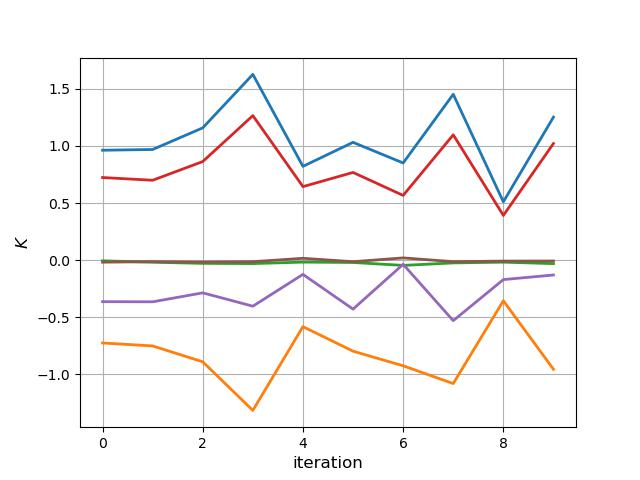
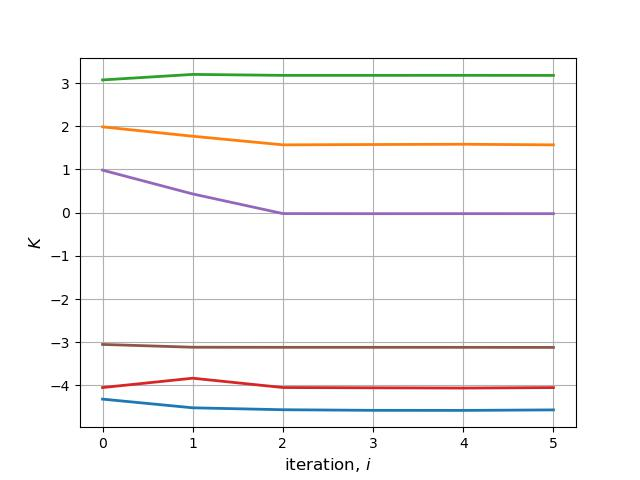
single learning experiment

diff --git a/adaptive_tracking_control/main_single_learning.py b/adaptive_tracking_control/main_single_learning.py
@@ -4,20 +4,20 @@ import time
 from matplotlib import ticker
 def MonteCarlo():
     totalSim = 1
-    iteration = 10
+    iteration = 5
     y_max = 0.8
     y_min = -0.3
-    K0_container = np.zeros((totalSim, iteration))
-    K1_container = np.zeros((totalSim, iteration))
-    K2_container = np.zeros((totalSim, iteration))
-    K3_container = np.zeros((totalSim, iteration))
-    K4_container = np.zeros((totalSim, iteration))
-    K5_container = np.zeros((totalSim, iteration))
-    k0_container = np.zeros((totalSim, iteration))
-    k1_container = np.zeros((totalSim, iteration))
+    K0_container = np.zeros((totalSim, iteration+1))
+    K1_container = np.zeros((totalSim, iteration+1))
+    K2_container = np.zeros((totalSim, iteration+1))
+    K3_container = np.zeros((totalSim, iteration+1))
+    K4_container = np.zeros((totalSim, iteration+1))
+    K5_container = np.zeros((totalSim, iteration+1))
+    k0_container = np.zeros((totalSim, iteration+1))
+    k1_container = np.zeros((totalSim, iteration+1))
     r_container = np.zeros((totalSim, iteration+1))
     l_container = np.zeros((totalSim, iteration+1))
-    nTraj = 1200
+    nTraj = 5000
     x_trained_container = np.zeros((totalSim, nTraj-1))
     y_trained_container = np.zeros((totalSim, nTraj-1))
 
@@ -31,8 +31,18 @@ def MonteCarlo():
         lti = LTI(fixed_param=True)
         x_init_container[i, :], y_init_container[i, :], _, _ = evaluation(lti, nTraj)
         r_container[i, 0], l_container[i, 0] = calculate_r_l(lti.B, lti.dt)
-        optimal_K = lti.K_optimal
-        optimal_k = lti.k_optimal
+        init_K = lti.K_ini
+        init_k = lti.k_ini
+        K0_container[i, 0] = init_K[0, 0]
+        K1_container[i, 0] = init_K[0, 1]
+        K2_container[i, 0] = init_K[0, 2]
+        K3_container[i, 0] = init_K[1, 0]
+        K4_container[i, 0] = init_K[1, 1]
+        K5_container[i, 0] = init_K[1, 2]
+        k0_container[i, 0] = init_k[0]
+        k1_container[i, 0] = init_k[1]
+        optimal_K = lti.K_ground_truth
+        optimal_k = lti.k_ground_truth
         for j in range(iteration):
             start_time = time.time()
             K, k, B, successful = learning(lti)
@@ -45,14 +55,14 @@ def MonteCarlo():
                 i = i - 1
                 break
             r, l = calculate_r_l(B, lti.dt)
-            K0_container[i, j] = K[0, 0] - optimal_K[0, 0]
-            K1_container[i, j] = K[0, 1] - optimal_K[0, 1]
-            K2_container[i, j] = K[0, 2] - optimal_K[0, 2]
-            K3_container[i, j] = K[1, 0] - optimal_K[1, 0]
-            K4_container[i, j] = K[1, 1] - optimal_K[1, 1]
-            K5_container[i, j] = K[1, 2] - optimal_K[1, 2]
-            k0_container[i, j] = k[0] - optimal_k[0]
-            k1_container[i, j] = k[1] - optimal_k[1]
+            K0_container[i, j+1] = K[0, 0] #- optimal_K[0, 0]
+            K1_container[i, j+1] = K[0, 1]# - optimal_K[0, 1]
+            K2_container[i, j+1] = K[0, 2]# - optimal_K[0, 2]
+            K3_container[i, j+1] = K[1, 0] #- optimal_K[1, 0]
+            K4_container[i, j+1] = K[1, 1] #- optimal_K[1, 1]
+            K5_container[i, j+1] = K[1, 2] #- optimal_K[1, 2]
+            k0_container[i, j+1] = k[0] #- optimal_k[0]
+            k1_container[i, j+1] = k[1]# - optimal_k[1]
             r_container[i, j+1] = r
             l_container[i, j+1] = l
 
@@ -64,7 +74,7 @@ def MonteCarlo():
     line_width = 2
     # dirpath
     dirpath = os.getcwd()
-    data_path = os.path.join(dirpath, "data")
+    data_path = os.path.join(dirpath, "data", "single_learning")
     # plot init x and y in the same figure
     plt.figure()
     plt.grid(True)
@@ -101,27 +111,30 @@ def MonteCarlo():
     plt.yticks(fontsize=font_size - 2)
     plt.plot(x, r_container.T, linewidth=line_width)
     plt.plot(x, l_container.T, linewidth=line_width)
-    plt.xlabel("iteration", fontsize=font_size)
-    plt.ylabel("$r~(m)$", fontsize=font_size)
+    plt.xlabel("iteration ($i$)", fontsize=font_size)
+    plt.ylabel("length (m)$", fontsize=font_size)
+    plt.legend(['$r$', '$l$'], fontsize=font_size - 2)
+    plt.title("Convergence process of $r$ and $l$", fontsize=font_size)
     name = "trained_r_l.jpg"
     plt.savefig(os.path.join(data_path, name))
     plt.show()
 
     # plot K0, K1, K2, K3, K4, K5
-    x = np.arange(0, iteration, 1)
+    x = np.arange(0, iteration+1, 1)
     plt.figure()
     # show grid
     plt.grid(True)
     plt.xticks(fontsize=font_size - 2)
     plt.yticks(fontsize=font_size - 2)
-    plt.plot(x, K0_container.T, linewidth=line_width)
-    plt.plot(x, K1_container.T, linewidth=line_width)
-    plt.plot(x, K2_container.T, linewidth=line_width)
-    plt.plot(x, K3_container.T, linewidth=line_width)
-    plt.plot(x, K4_container.T, linewidth=line_width)
-    plt.plot(x, K5_container.T, linewidth=line_width)
-    plt.xlabel("iteration", fontsize=font_size)
-    plt.ylabel("$K$", fontsize=font_size)
+    plt.plot(x, K0_container[0, :], linewidth=line_width)
+    plt.plot(x, K1_container[0, :], linewidth=line_width)
+    plt.plot(x, K2_container[0, :], linewidth=line_width)
+    plt.plot(x, K3_container[0, :], linewidth=line_width)
+    plt.plot(x, K4_container[0, :], linewidth=line_width)
+    plt.plot(x, K5_container[0, :], linewidth=line_width)
+    plt.legend(['$K[0, 0]$', '$K[0, 1]$', '$K[0, 2]$', '$K[1, 0]$', '$K[1, 1]$', '$K[1, 2]$'], fontsize=font_size - 2, )
+    plt.xlabel("iteration ($i$)", fontsize=font_size)
+    plt.title("Convergence process of $K$", fontsize=font_size)
     name = "trained_K.jpg"
     plt.savefig(os.path.join(data_path, name))
     plt.show()

diff --git a/adaptive_tracking_control/data_driven_FBC.py b/adaptive_tracking_control/data_driven_FBC.py
@@ -28,23 +28,24 @@ class LTI:
     def __init__(self, fixed_param=False):
         self.system_init(fixed_param)
         self.controller_init()
-        self.get_optimal_control()
+        self.get_ground_truth_control()
 
-    def get_optimal_control(self):
-        optimal_l = 0.23
-        optimal_r = 0.036
-        optimal_B = self.dt * np.array([[optimal_r / 2, optimal_r / 2],
+    def get_ground_truth_control(self):
+        ground_truth_l = 0.23
+        ground_truth_r = 0.036
+        ground_truth_B = self.dt * np.array([[ground_truth_r / 2, ground_truth_r / 2],
                               [0, 0],
-                              [-optimal_r / optimal_l, optimal_r / optimal_l]])
+                              [-ground_truth_r / ground_truth_l, ground_truth_r / ground_truth_l]])
 
-        self.k_optimal = -np.linalg.pinv(optimal_B) @ self.c
-        self.K_optimal = -ct.dlqr(self.A, optimal_B, self.Q, self.R)[0]
-        self.B_optimal = optimal_B
+        self.k_ground_truth = -np.linalg.pinv(ground_truth_B) @ self.c
+        self.K_ground_truth = -ct.dlqr(self.A, ground_truth_B, self.Q, self.R)[0]
+        self.B_ground_truth = ground_truth_B
+
 
     def system_init(self, fixed_param=False):
         if fixed_param:
-            l = 0.23
-            r = 0.036
+            l = 0.15
+            r = 0.08
         else:
             l = np.random.uniform(0.2, 0.28)
             r = np.random.uniform(0.03, 0.05)
@@ -60,6 +61,9 @@ class LTI:
                                      [-r / l, r / l]])
         self.c = -self.dt * self.twist
 
+        self.init_A = self.A
+        self.init_B = self.B
+        self.init_c = self.c
 
         self.Q = 200 * np.eye(3)
         self.R = 10 * np.eye(2)
@@ -210,7 +214,7 @@ def simulation(lti, learning=False):
         u = K @ x + k
         if learning:
             # u = u + np.sin(np.random.normal(0, 1, (m,)) * 0.1) + np.cos(np.random.normal(0, 1, (m,)) * 0.1)
-            u = u + 0.5 * np.random.normal(0, 1, (m,))
+            u = u + 0.5 * np.random.normal(0, 0.1, (m,))
             # u = u + np.random.uniform(-0.2, 0.2, (m,))
         # wheel_velocity_container[:, i] = robot.get_wheel_vel()
         control_container[:, i] = u
@@ -303,7 +307,7 @@ def learning(lti):
     data_container = simulation(lti, True)
     K_prev = np.zeros((m, n))
     k_prev = np.zeros((m,))
-    while np.linalg.norm(data_container.K - K_prev) > 0.02 or np.linalg.norm(data_container.k - k_prev) > 0.02:
+    while np.linalg.norm(data_container.K - K_prev) > 0.001:
         # if iteration > 0:
         #     break
         K_prev = data_container.K
@@ -324,12 +328,12 @@ def learning(lti):
         k = -np.linalg.pinv(B) @ lti.c
         data_container.K = K
         data_container.k = k
-        # print("current K: ", K)
-        # print("current k: ", k)
-        # print("optimal K: ", lti.optimal_K)
-        # print("error K: ", data_container.K - K_prev)
-        # print("error k: ", data_container.k - k_prev)
-        # print("====================================")
+        print("current K: ", K)
+        print("current k: ", k)
+        print("optimal K: ", lti.K_ground_truth)
+        print("error K: ", data_container.K - K_prev)
+        print("error k: ", data_container.k - k_prev)
+        print("====================================")
         iteration += 1
         if iteration > 100:
             return K, k, B, False

diff --git a/adaptive_tracking_control/time_varying_lqr.py b/adaptive_tracking_control/time_varying_lqr.py
@@ -156,7 +156,7 @@ if __name__ == '__main__':
     plt.yticks(fontsize=font_size - 4)
     plt.plot(init_state_container[0, :], init_state_container[1, :], 'b')
     plt.plot(trained_state_container[0, :], trained_state_container[1, :], 'r')
-        plt.plot(ref_state_container[0, :], ref_state_container[1, :], 'g', linestyle='-.')
+    plt.plot(ref_state_container[0, :], ref_state_container[1, :], 'g', linestyle='-.')
     plt.legend(['trajectory with initial model', 'trajectory with trained model', 'reference trajectory'], fontsize=font_size - 2)
     plt.xlabel("$x~(m)$", fontsize=font_size)
     plt.ylabel("$y~(m)$", fontsize=font_size)
